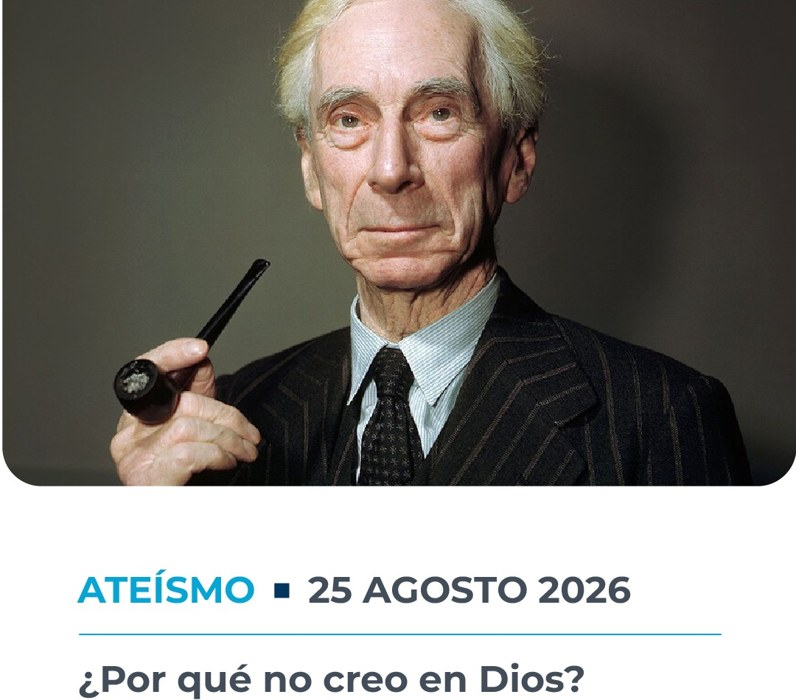
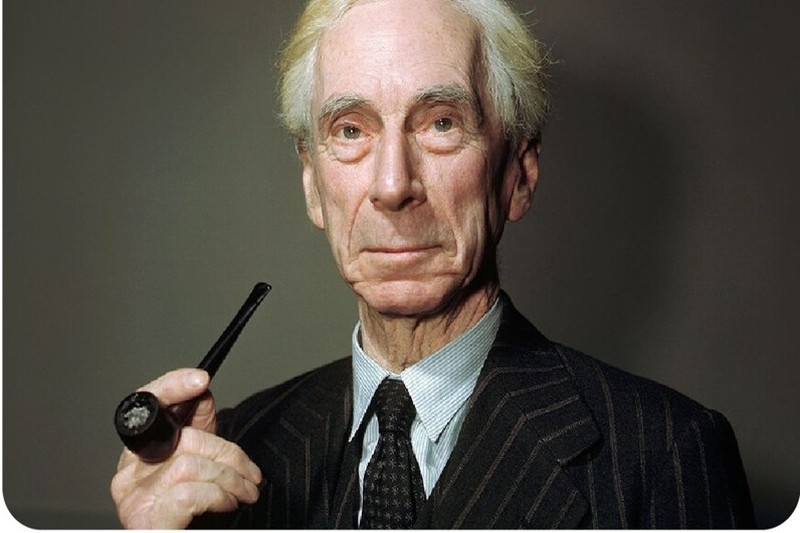
feat(media): incorporar fotos reales de comunidad Aperat y marchas laicas

diff --git a/index.html b/index.html
@@ -152,8 +152,8 @@
         <div class="community__grid">
           <!-- Columna Izquierda: Composición Asimétrica de Fotos -->
           <div class="community__visuals">
-            <img src="assets/img/community/dawkins.jpg" alt="Richard Dawkins - Referente del pensamiento científico y racional" class="community__image-dawkins" loading="lazy">
-            <img src="assets/img/community/jovenes.jpg" alt="Comunidad de jóvenes en encuentro humanista" class="community__image-youth" loading="lazy">
+            <img src="assets/img/community/dawkins.jpg?v=2" alt="Richard Dawkins - Referente del pensamiento científico y racional" class="community__image-dawkins" loading="lazy">
+            <img src="assets/img/community/aperat_comunidad_selfie.jpg" alt="Miembros de la comunidad de APERAT reunidos en Lima" class="community__image-youth" loading="lazy">
           </div>
 
           <!-- Columna Derecha: Contenido Institucional -->
@@ -369,7 +369,7 @@
           <!-- Artículo 2 -->
           <article class="article-card">
             <div class="article-card__media">
-              <img src="assets/img/articles/amigos.jpg" alt="Comunidad juvenil viviendo valores humanistas y solidarios" class="article-card__image" loading="lazy">
+              <img src="assets/img/articles/articulo_humanismo_asamblea.jpg" alt="Asamblea de la comunidad de APERAT y Humanists International en Lima" class="article-card__image" loading="lazy">
             </div>
             <div class="article-card__meta">
               <span class="article-card__meta-tag">Humanismo</span>
@@ -396,18 +396,18 @@
           <!-- Artículo 3 -->
           <article class="article-card">
             <div class="article-card__media">
-              <img src="assets/img/articles/ciencia.jpg" alt="Investigación de laboratorio con microscopio y análisis científico" class="article-card__image" loading="lazy">
+              <img src="assets/img/articles/articulo_marcha_laica.jpg" alt="Marcha en Lima por la defensa del Estado Laico y derechos civiles" class="article-card__image" loading="lazy">
             </div>
             <div class="article-card__meta">
-              <span class="article-card__meta-tag">Ciencia</span>
+              <span class="article-card__meta-tag">Estado Laico</span>
               <span class="article-card__meta-sep" aria-hidden="true">■</span>
               <time class="article-card__meta-date" datetime="2026-10-25">25 Octubre 2026</time>
             </div>
             <h3 class="article-card__title">
-              Ciencia y pensamiento crítico: cómo aprendemos lo que realmente sabemos sobre el mundo
+              Defensa del Estado Laico: libertad de conciencia y derechos fundamentales en el Perú
             </h3>
             <p class="article-card__excerpt">
-              La ciencia avanza mediante preguntas, evidencia, experimentación y revisión constante. Descubre por qué cuestionar nuestras propias ideas es una de las herramientas más poderosas para acercarnos al conocimiento.
+              Un Estado verdaderamente laico no persigue creencias: garantiza que todas las personas convivan bajo leyes comunes, sin privilegios tributarios ni imposiciones dogmáticas en políticas públicas.
             </p>
             <a href="#contacto" class="article-card__link">Leer artículo</a>
             <div class="article-card__divider" aria-hidden="true"></div>
